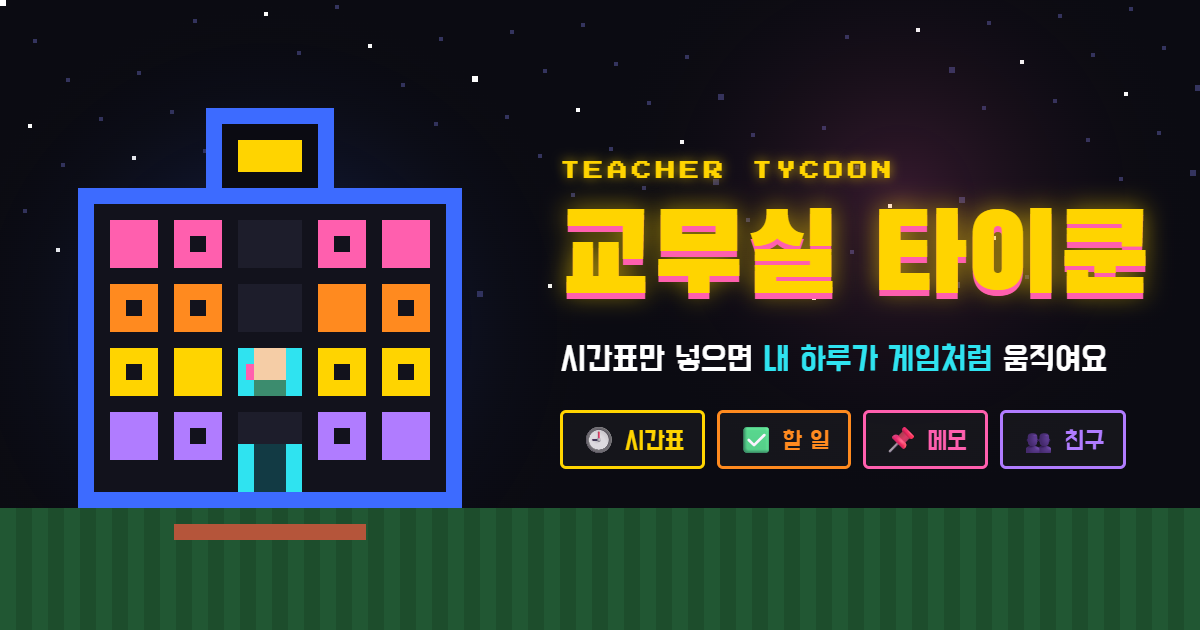
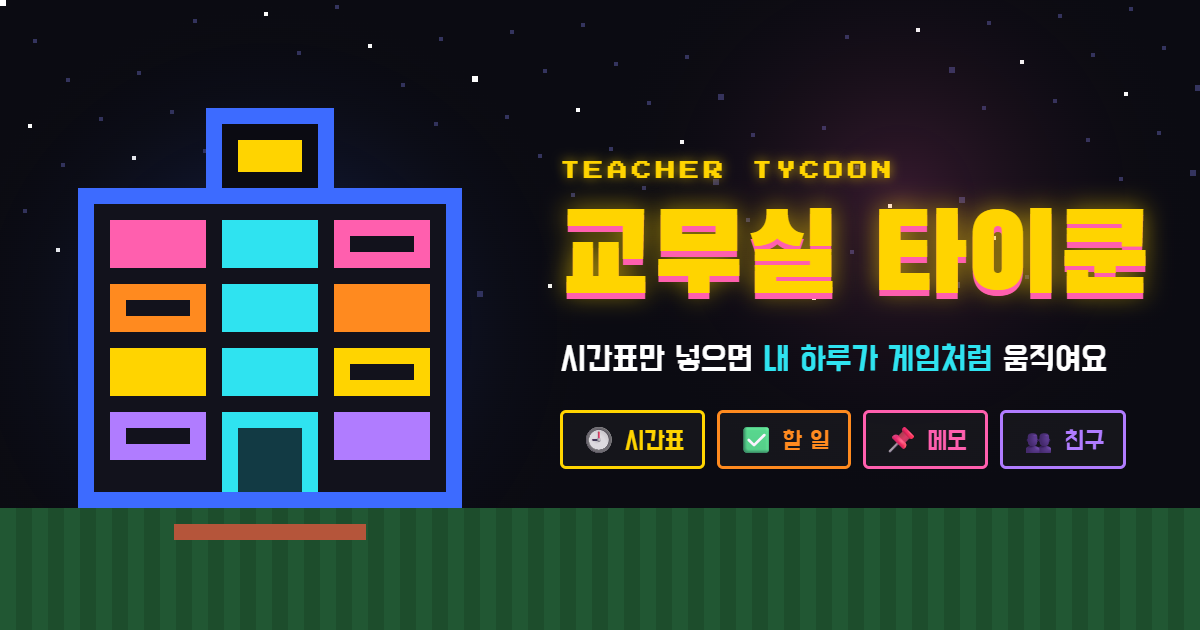
교무실 타이쿤: 카톡 미리보기(og.png) 건물도 아이콘과 같게 — 층마다 창문 3칸 · 가운데 하늘색 · 1층 현관 문, ?v=5

Changed region(s): [[0.0925, 0.3317, 0.37, 0.7841]]

diff --git a/desk/index.html b/desk/index.html
@@ -7,7 +7,7 @@
 <!-- 교무실 타이쿤은 moontr.site/tycoon 으로 옮겼어요. 예전 주소(/desk)로 들어오면 그대로 넘겨 줘요 (#admin · ?admin 같은 뒤쪽 주소도 함께) -->
 <meta property="og:title" content="교무실 타이쿤 · 시간표만 넣으면 나만의 데스크탑">
 <meta property="og:url" content="https://moontr.site/tycoon/">
-<meta property="og:image" content="https://moontr.site/tycoon/og.png?v=4">
+<meta property="og:image" content="https://moontr.site/tycoon/og.png?v=5">
 <link rel="canonical" href="https://moontr.site/tycoon/">
 <link rel="icon" href="/tycoon/favicon-32.png?v=5">
 <script>location.replace('/tycoon/' + location.search + location.hash);</script>

diff --git a/tycoon/index.html b/tycoon/index.html
@@ -8,7 +8,7 @@
 <meta property="og:title" content="교무실 타이쿤 · TEACHER TYCOON">
 <meta property="og:description" content="시간표만 넣으면 나만의 데스크탑이 완성돼요">
 <meta property="og:url" content="https://moontr.site/tycoon/">
-<meta property="og:image" content="https://moontr.site/tycoon/og.png?v=4">
+<meta property="og:image" content="https://moontr.site/tycoon/og.png?v=5">
 <meta property="og:image:width" content="1200">
 <meta property="og:image:height" content="630">
 <meta name="twitter:card" content="summary_large_image">
